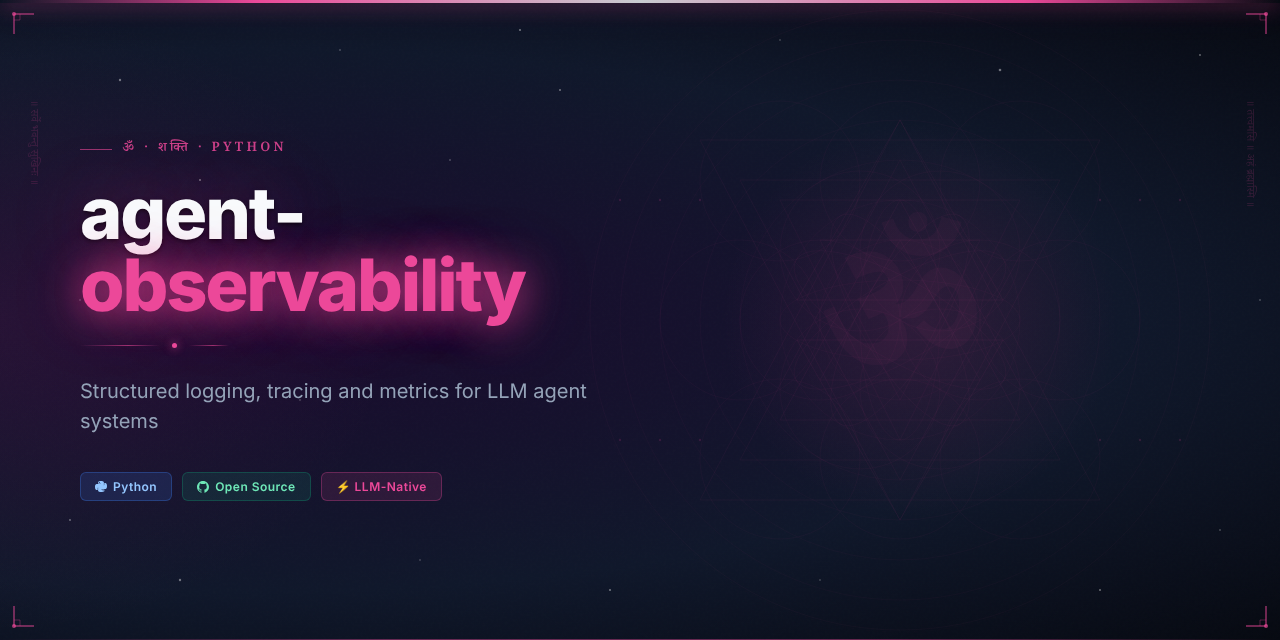
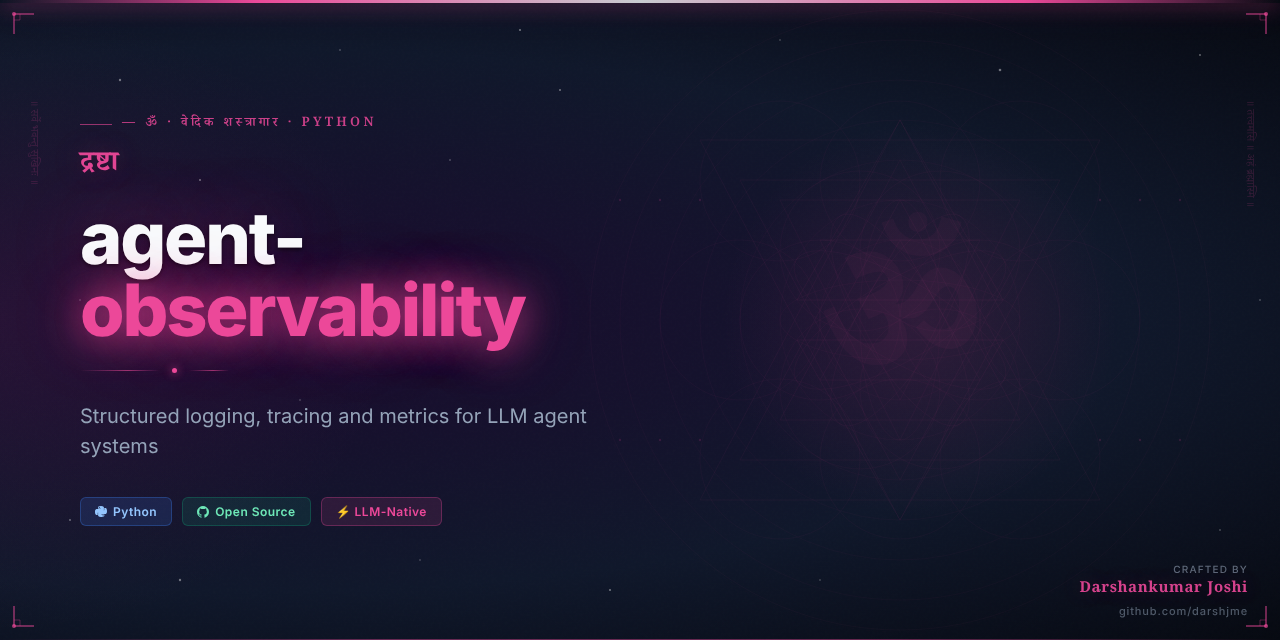
feat: add Vedic Arsenal hero image and updated README
Part of darshjme/arsenal — 100 production-grade Python libraries for LLM agents.
Vedic branding: ancient philosophy meets modern AI engineering.

diff --git a/README.md b/README.md
@@ -1,10 +1,12 @@
 <div align="center">
 
-<img src="assets/agent-observability-hero.png" alt="agent-observability — Vedic Arsenal" width="100%" />
+<img src="assets/agent-observability-hero.png" alt="agent-observability — Vedic Arsenal by Darshankumar Joshi" width="100%" />
 
 # 🪷 agent-observability
 
-### *द्रष्टा* — Drashta — the witness consciousness that sees all
+<h3><em>द्रष्टा</em></h3>
+
+> *Drashta — the witness consciousness that sees all*
 
 **Structured logging, tracing and metrics for LLM agent systems**
 
@@ -39,6 +41,20 @@ Or clone directly:
 git clone https://github.com/darshjme/agent-observability.git
 cd agent-observability
 pip install -e .
+```
+
+## How It Works
+
+```mermaid
+flowchart LR
+    A[Agent Action] --> B[agent-observability]
+    B --> C[Structured Log]
+    B --> D[Trace Span]
+    B --> E[Metric Counter]
+    C --> F[Log Store]
+    D --> G[Trace Backend]
+    E --> H[Metrics Dashboard]
+    style B fill:#ec4899,color:#fff
 ```
 
 ## Quick Start
@@ -90,7 +106,7 @@ MIT — use freely, build freely.
 
 <div align="center">
 
-**Built with 🪷 by [Darshankumar Joshi](https://github.com/darshjme)**
+**Built with 🪷 by [Darshankumar Joshi](https://github.com/darshjme)** · [@thedarshanjoshi](https://twitter.com/thedarshanjoshi)
 
 *"कर्मण्येवाधिकारस्ते मा फलेषु कदाचन"*
 *Your right is to action alone, never to the fruits thereof.*
